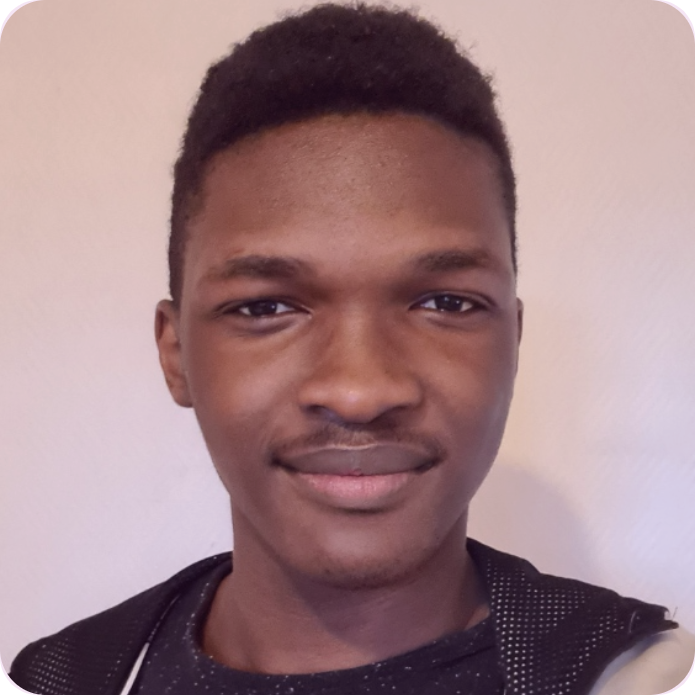
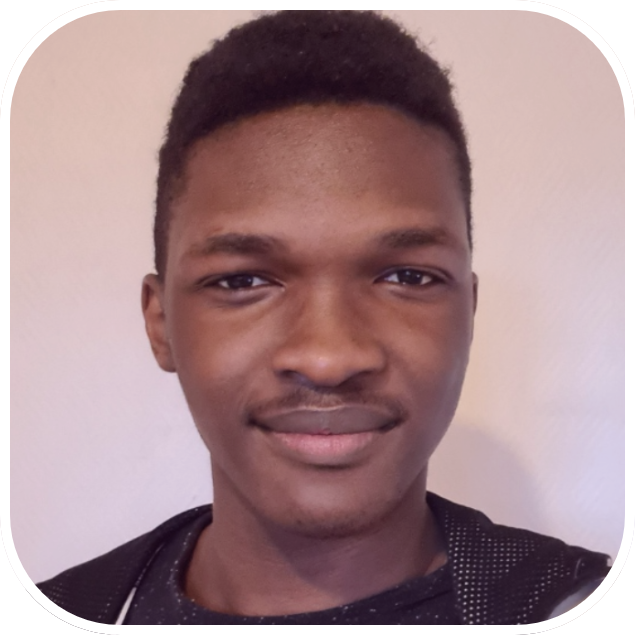
malick borders

Changed region(s): [[0.0, 0.0, 1.0, 1.0]]

diff --git a/src/app/malick/malick.component.css b/src/app/malick/malick.component.css
@@ -11,9 +11,6 @@
 
 img{
     width: 100%;
-    border: 0.25vw solid white;
-    border-radius: 10%;
-    background-color: white;
 }
 
 #Title{
